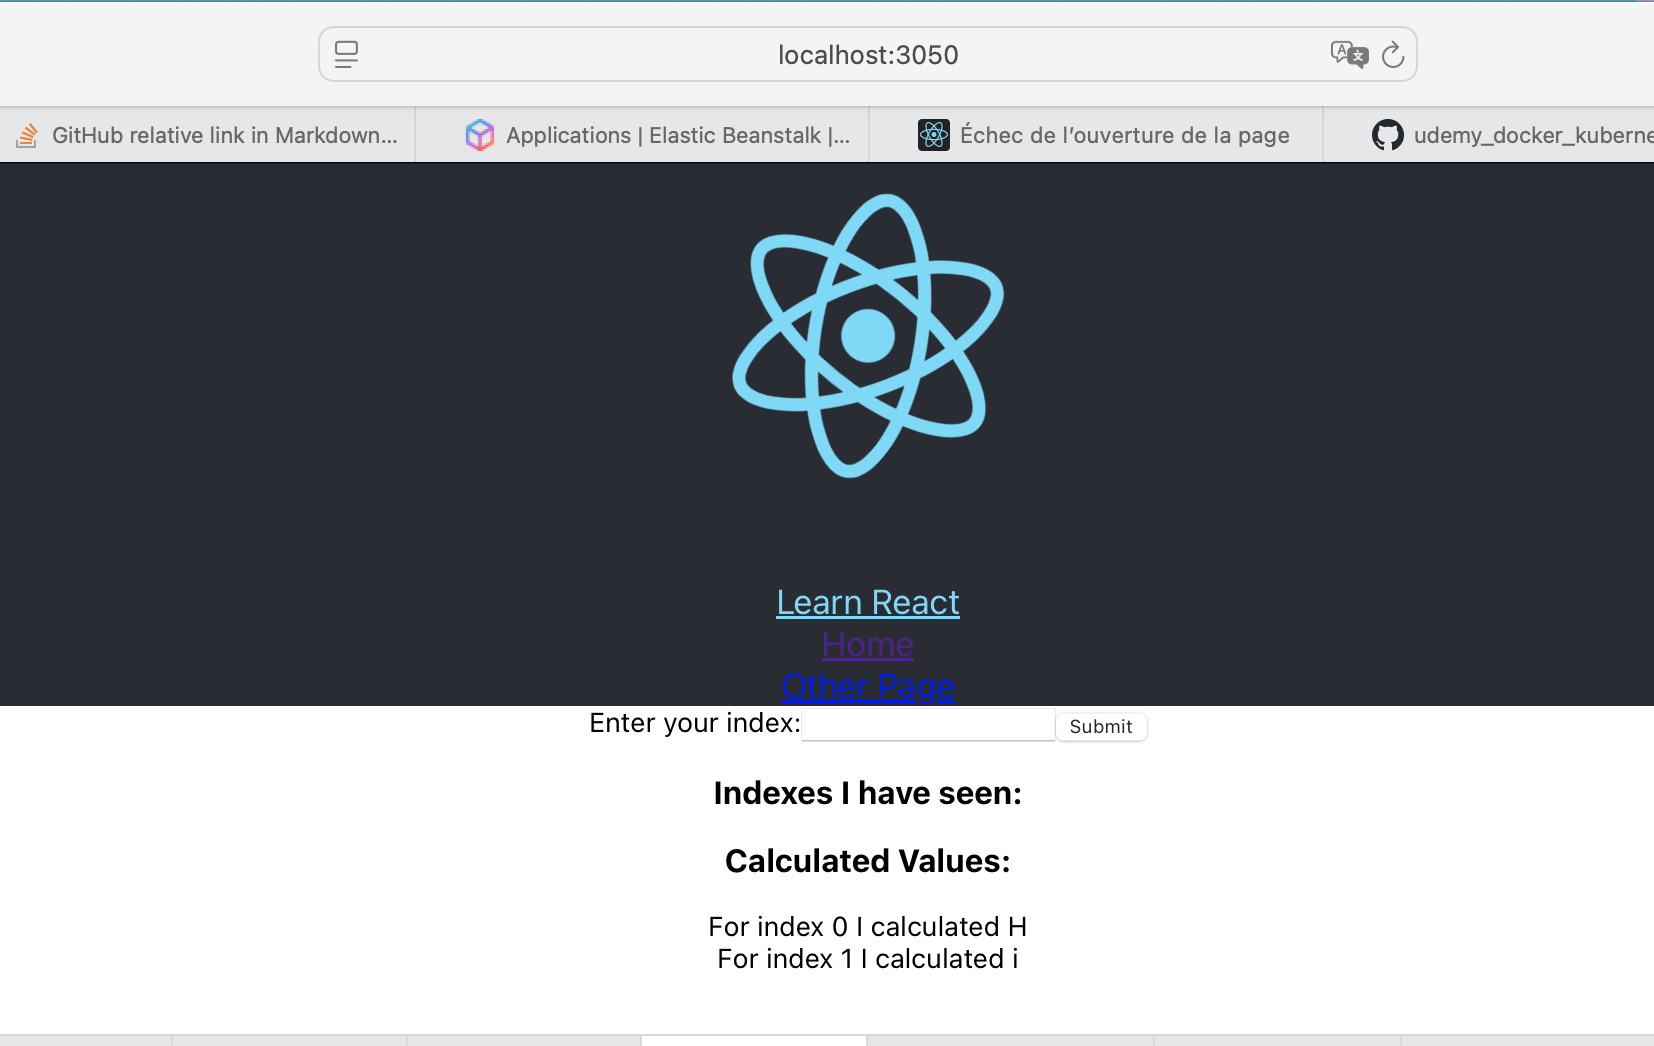
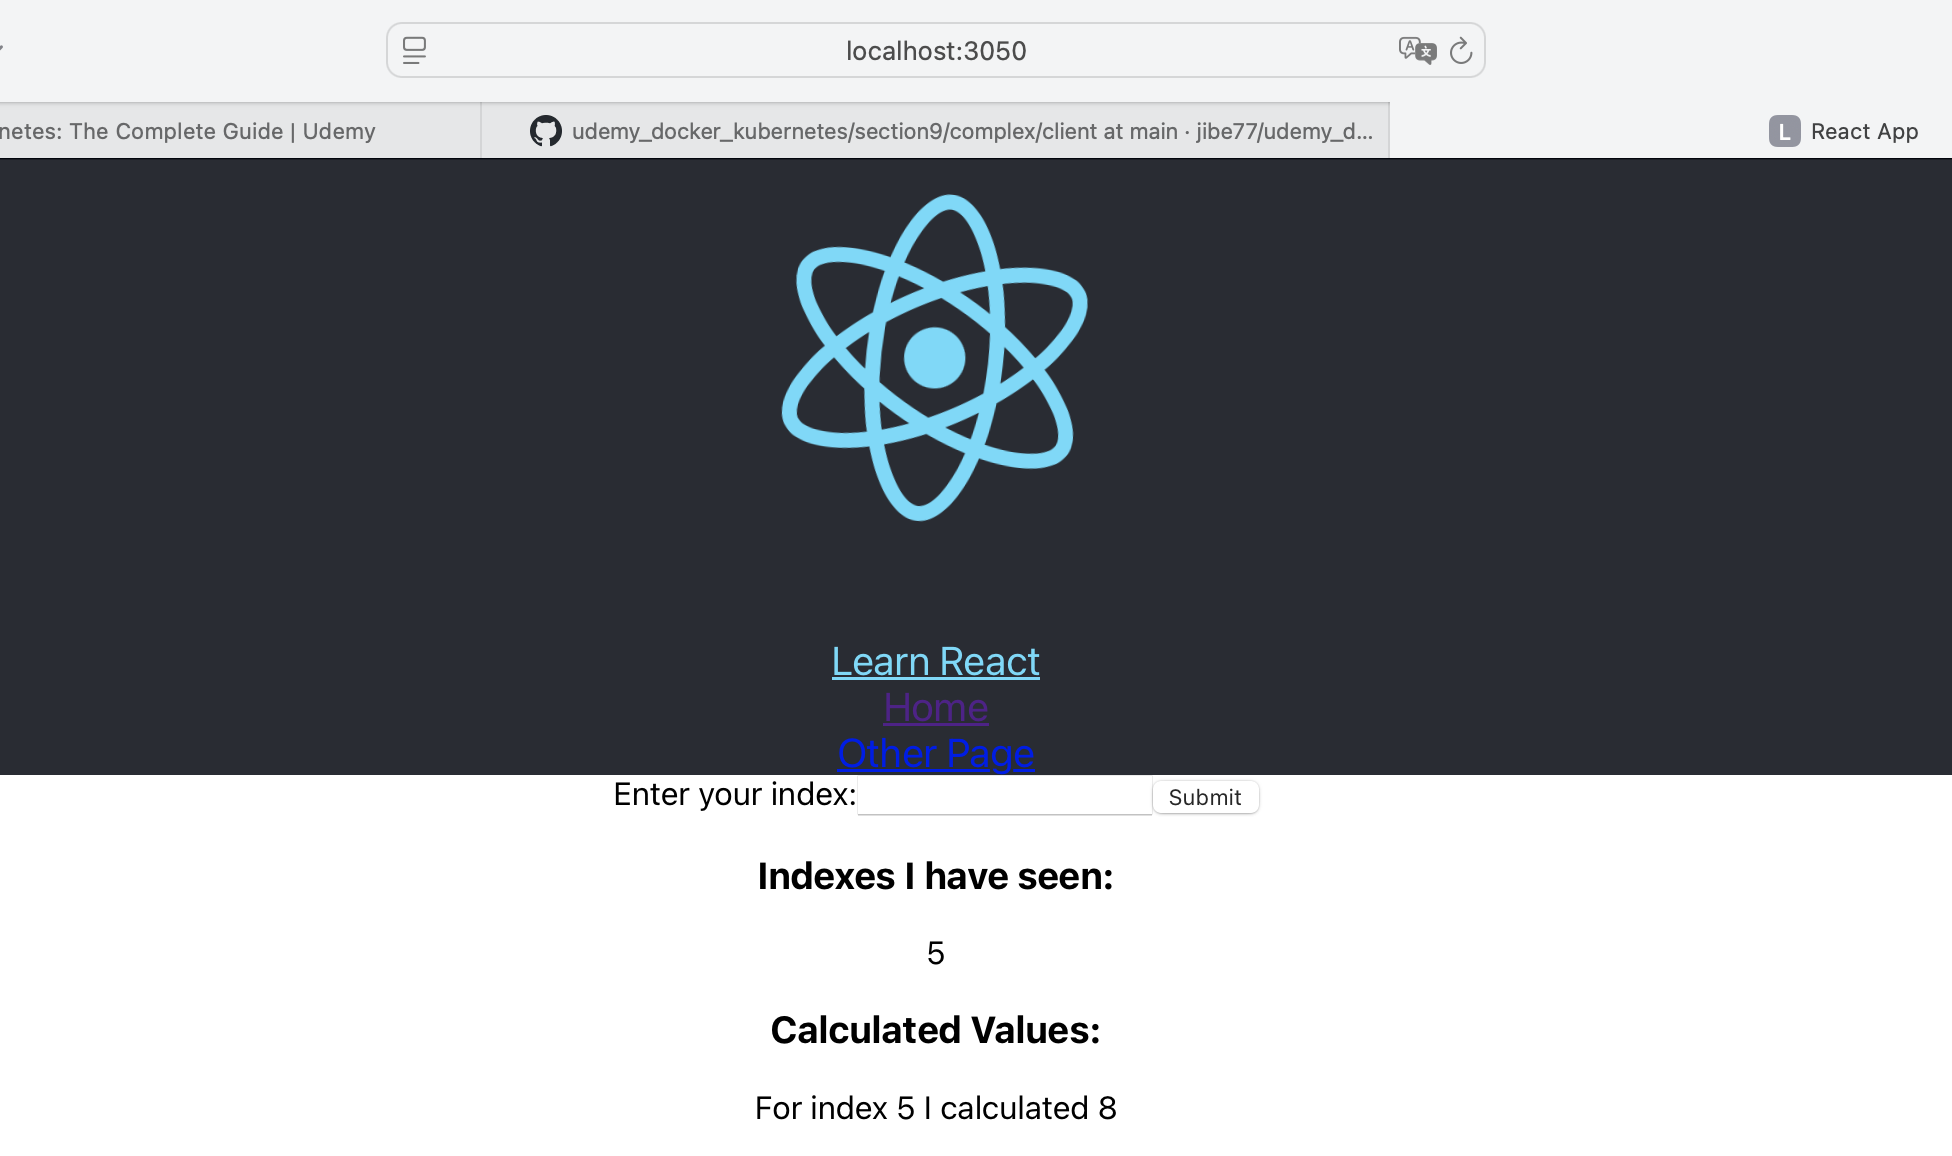
fix nginx configuration.

diff --git a/section9/complex/client/src/Fib.js b/section9/complex/client/src/Fib.js
@@ -35,7 +35,7 @@ class Fib extends Component {
   };
 
   renderSeenIndexes() {
-    //return this.state.seenIndexes.map(({ number }) => number).join(', ');
+    return this.state.seenIndexes.map(({ number }) => number).join(', ');
   }
 
   renderValues() {

diff --git a/readme.md b/readme.md
@@ -398,10 +398,10 @@ La commande suivante permet donc de déployer l'infrastructure complète :
 
 La copie d'écran suivante montre le lancement l'application dans le terminal :
 
-TODO : image 13 : build
+![run](images/13_docker_compose_build.png)
 
-TODO : image 14 : run
+![run](images/14_docker_compose_run.png)
 
 La copie d'écran suivante montre l'application en fonctionnement : 
 
-TODO : image 12
+![run](images/12_docker_compose_react_app.png)
